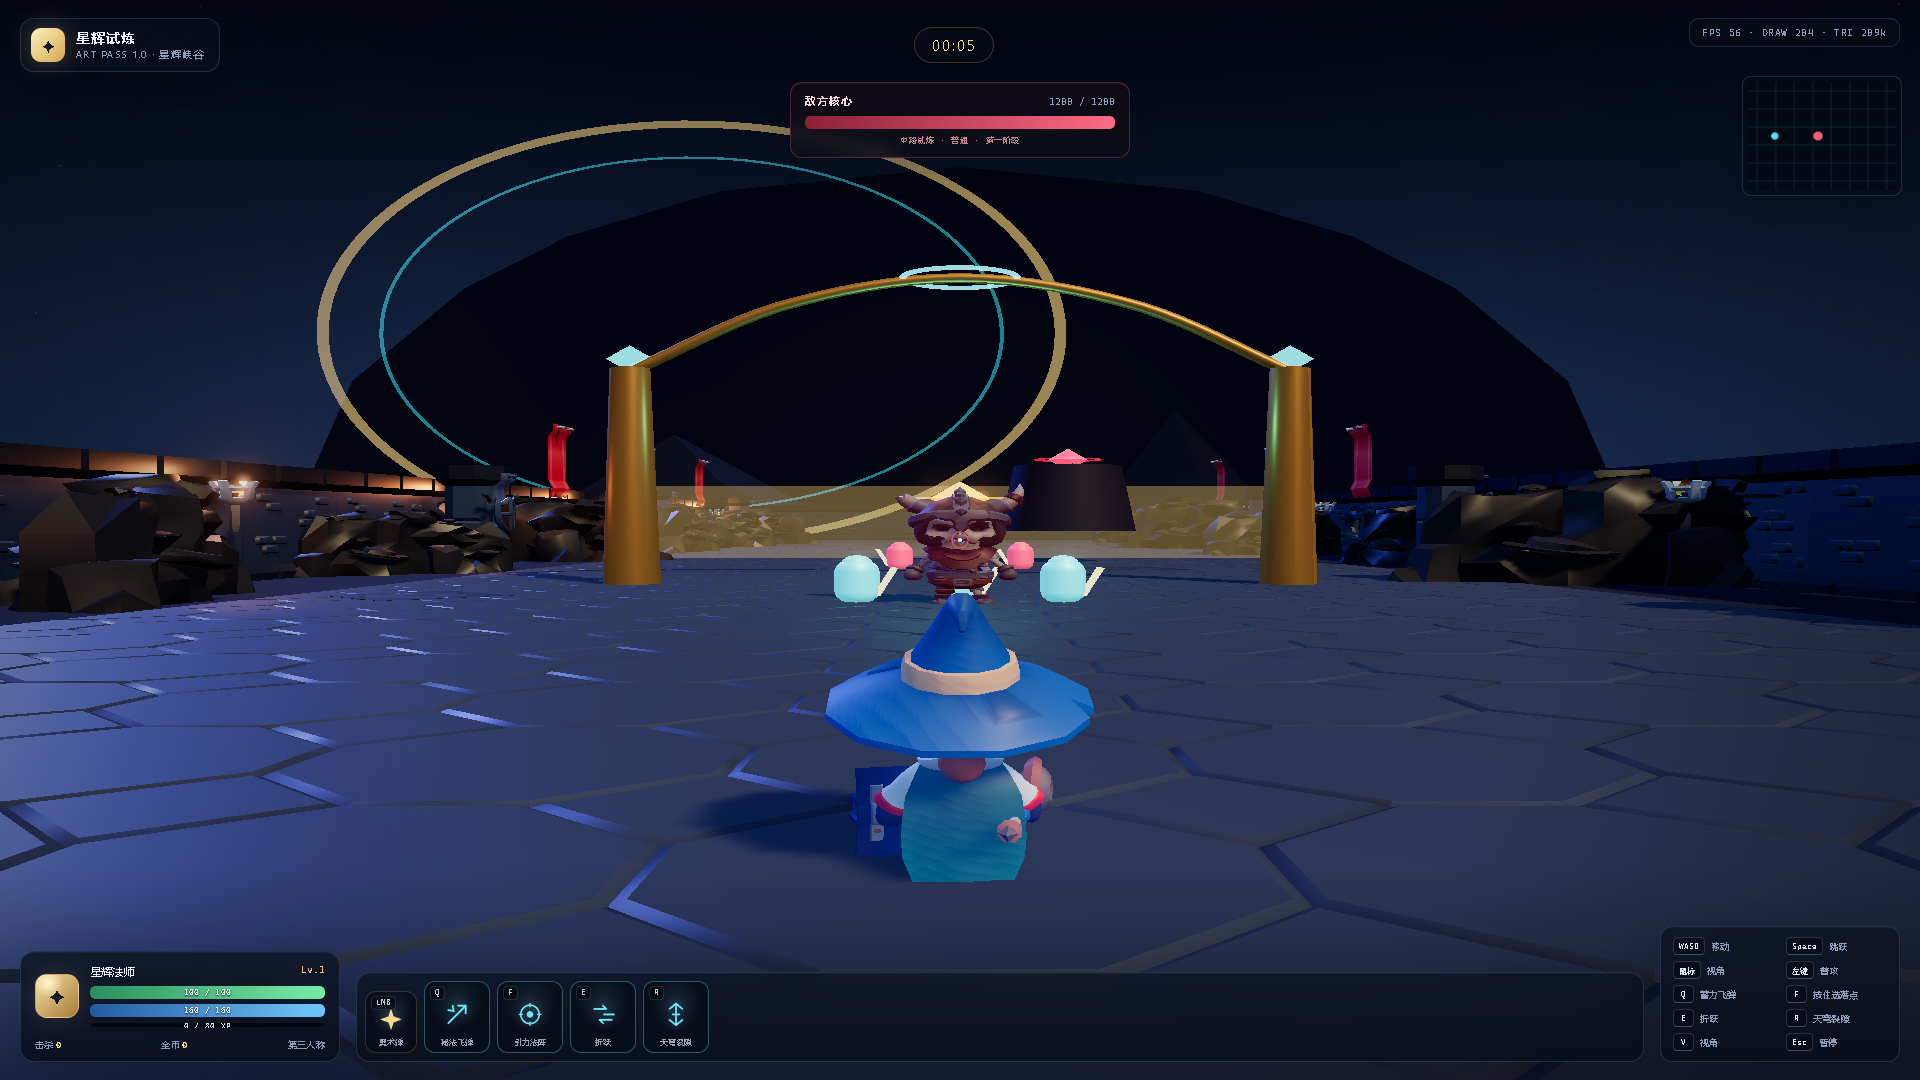
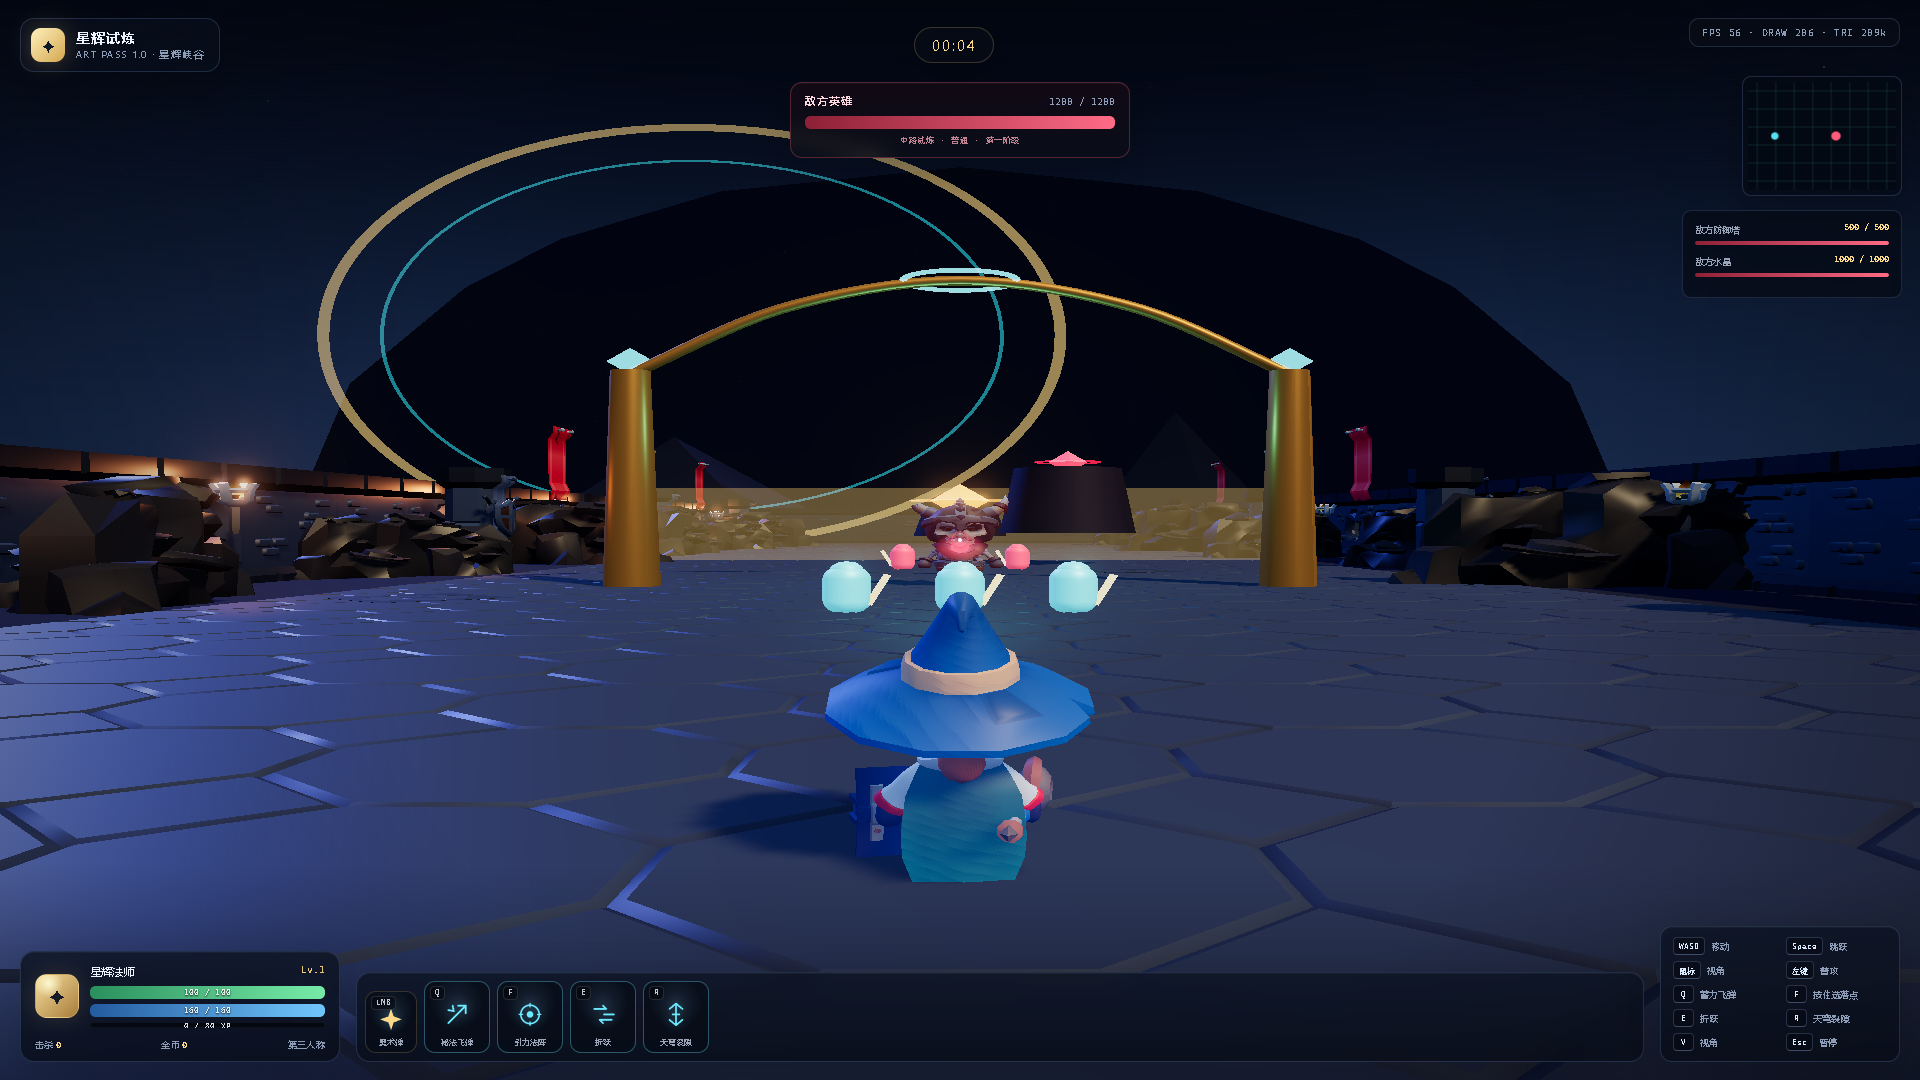
feat(p6): add respawns and lane objective HUD

diff --git a/src/game/Game.ts b/src/game/Game.ts
@@ -147,6 +147,7 @@ export class Game {
   private laneNextId = 100000;
   private laneNextStructureId = 200000;
   private laneEnemyAttackTimer = 1.2;
+  private laneEnemyRespawnTimer = 0;
   private runRound = 1;
   private readonly upgrades = new Map<UpgradeId, number>();
   private runFinished = false;
@@ -496,6 +497,7 @@ export class Game {
         shopItemsBought: this.shopItemsBought,
         shopDamageBonus: this.shopDamageBonus,
         shopCooldownBonus: this.shopCooldownBonus,
+        laneEnemyRespawnTimer: this.laneEnemyRespawnTimer,
         kills: this.kills,
         bossModifier: this.bossModifier,
         build: this.buildSummary,
@@ -765,6 +767,7 @@ export class Game {
     this.clearLaneStructures();
     this.laneWaveTimer = 1.5;
     this.laneEnemyAttackTimer = 1.2;
+    this.laneEnemyRespawnTimer = 0;
     this.dummy.setVariant('star');
     this.dummy.setMaxHealth(1200);
     this.applyBossModifiers();
@@ -801,6 +804,17 @@ export class Game {
 
   private clearLaneStructures(): void {
     for (const structure of this.laneStructures.splice(0)) structure.dispose();
+  }
+
+  private respawnLaneEnemy(): void {
+    this.dummy.setVariant('star');
+    this.dummy.setMaxHealth(1200);
+    this.dummy.respawn();
+    this.bossDefeated = false;
+    this.laneEnemyAttackTimer = 1.2;
+    this.enemyView.setVisible(true);
+    this.enemyView.play('Idle', 0.1);
+    this.hud.showToast('敌方英雄已重生', 1000);
   }
 
   private clearLaneMinions(): void {
@@ -1380,6 +1394,15 @@ export class Game {
     this.player.update(dt, move, this.input.yaw);
 
     if (this.gameMode === 'lane') {
+      if (this.laneEnemyRespawnTimer > 0) {
+        this.laneEnemyRespawnTimer = Math.max(
+          0,
+          this.laneEnemyRespawnTimer - dt,
+        );
+        if (this.laneEnemyRespawnTimer <= 0) {
+          this.respawnLaneEnemy();
+        }
+      }
       this.laneWaveTimer = Math.max(0, this.laneWaveTimer - dt);
       if (this.laneWaveTimer <= 0) {
         this.laneWaveTimer = 12;
@@ -1648,6 +1671,19 @@ export class Game {
         ? `中路试炼 · ${this.difficultyConfig.shortLabel} · ${this.dummy.phaseLabel}`
         : `Boss ${this.runRound}/${BOSS_ROUNDS} · ${this.difficultyConfig.shortLabel} · ${this.dummy.phaseLabel}`,
       this.bossDisplayName,
+    );
+    const laneTower = this.laneStructures.find(
+      (structure) => structure.kind === 'tower',
+    );
+    const laneNexus = this.laneStructures.find(
+      (structure) => structure.kind === 'nexus',
+    );
+    this.hud.setLaneObjectives(
+      this.gameMode === 'lane',
+      laneTower?.health ?? 0,
+      500,
+      laneNexus?.health ?? 0,
+      1000,
     );
     this.hud.updateMinimap(
       this.player.position,
@@ -2424,8 +2460,9 @@ export class Game {
     if (this.bossDefeated || this.upgradePending || this.runFinished) return;
     if (this.gameMode === 'lane') {
       this.bossDefeated = true;
+      this.laneEnemyRespawnTimer = 8;
       this.hud.setTarget(false);
-      this.hud.showToast('敌方英雄被击退 · 水晶仍在', 1600);
+      this.hud.showToast('敌方英雄被击退 · 8 秒后重生', 1600);
       this.enemyView.play('Death_A', 0.1, true);
       this.enemyActionLock = 3.0;
       return;
@@ -2636,6 +2673,7 @@ export class Game {
     if (this.gameMode === 'lane') {
       this.laneWaveTimer = 1.5;
       this.laneEnemyAttackTimer = 1.2;
+      this.laneEnemyRespawnTimer = 0;
       this.clearLaneMinions();
       this.clearLaneStructures();
       this.spawnLaneStructures();

diff --git a/src/game/Hud.ts b/src/game/Hud.ts
@@ -84,6 +84,11 @@ export class Hud {
   private readonly pauseStats = element<HTMLParagraphElement>('pause-stats');
   private readonly victoryStats = element<HTMLParagraphElement>('victory-stats');
   private readonly minimap = element<HTMLCanvasElement>('minimap');
+  private readonly laneObjectives = element<HTMLDivElement>('lane-objectives');
+  private readonly laneTowerText = element<HTMLElement>('lane-tower-text');
+  private readonly laneTowerFill = element<HTMLDivElement>('lane-tower-fill');
+  private readonly laneNexusText = element<HTMLElement>('lane-nexus-text');
+  private readonly laneNexusFill = element<HTMLDivElement>('lane-nexus-fill');
   private readonly deathScreen = element<HTMLDivElement>('death-screen');
   private readonly deathCountdown = element<HTMLParagraphElement>('death-countdown');
   private readonly respawnButton = element<HTMLButtonElement>('respawn-button');
@@ -368,6 +373,21 @@ export class Hud {
       `造成伤害 ${Math.round(dealt)} · 承受伤害 ${Math.round(taken)} · 命中 ${hits}`;
     this.pauseStats.textContent = text;
     this.victoryStats.textContent = text;
+  }
+
+  setLaneObjectives(
+    visible: boolean,
+    towerHealth = 0,
+    towerMax = 500,
+    nexusHealth = 0,
+    nexusMax = 1000,
+  ): void {
+    this.laneObjectives.classList.toggle('hidden', !visible);
+    if (!visible) return;
+    this.laneTowerText.textContent = `${Math.max(0, Math.ceil(towerHealth))} / ${towerMax}`;
+    this.laneTowerFill.style.width = `${Math.max(0, Math.min(1, towerHealth / towerMax)) * 100}%`;
+    this.laneNexusText.textContent = `${Math.max(0, Math.ceil(nexusHealth))} / ${nexusMax}`;
+    this.laneNexusFill.style.width = `${Math.max(0, Math.min(1, nexusHealth / nexusMax)) * 100}%`;
   }
 
   updateMinimap(

diff --git a/index.html b/index.html
@@ -31,6 +31,23 @@
         <canvas id="minimap" width="160" height="120"></canvas>
       </div>
 
+      <div id="lane-objectives" class="lane-objectives hidden">
+        <div class="lane-objective-row">
+          <span>敌方防御塔</span>
+          <b id="lane-tower-text">500 / 500</b>
+        </div>
+        <div class="bar target-bar">
+          <div id="lane-tower-fill" class="bar-fill enemy"></div>
+        </div>
+        <div class="lane-objective-row">
+          <span>敌方水晶</span>
+          <b id="lane-nexus-text">1000 / 1000</b>
+        </div>
+        <div class="bar target-bar">
+          <div id="lane-nexus-fill" class="bar-fill enemy"></div>
+        </div>
+      </div>
+
       <div id="boss-intro" class="boss-intro hidden">
         <div class="boss-intro-eyebrow">BOSS ENCOUNTER</div>
         <h2 id="boss-intro-title">星蚀守卫</h2>

diff --git a/src/style.css b/src/style.css
@@ -218,6 +218,43 @@ body.low-health #vignette {
   height: 100%;
 }
 
+.lane-objectives {
+  position: absolute;
+  z-index: 9;
+  top: 210px;
+  right: 18px;
+  width: 220px;
+  padding: 11px 12px;
+  border: 1px solid rgba(143, 186, 255, 0.16);
+  border-radius: 9px;
+  background: rgba(4, 9, 18, 0.7);
+  backdrop-filter: blur(10px);
+}
+
+.lane-objectives.hidden {
+  display: none;
+}
+
+.lane-objective-row {
+  display: flex;
+  justify-content: space-between;
+  gap: 8px;
+  color: rgba(206, 222, 242, 0.72);
+  font-size: 9px;
+}
+
+.lane-objective-row b {
+  color: var(--gold-strong);
+  font-family: "Cascadia Code", "Consolas", monospace;
+  font-size: 9px;
+  font-weight: 500;
+}
+
+.lane-objectives .target-bar {
+  height: 4px;
+  margin: 5px 0 9px;
+}
+
 .shop-grid {
   display: grid;
   gap: 9px;

diff --git a/docs/P6-验收记录.md b/docs/P6-验收记录.md
@@ -1,7 +1,7 @@
-# P6 验收记录 · 中路试炼原型（进行中）
+# P6 验收记录 · 中路试炼（核心完成）
 
 > 日期：2026-11-19  
-> 版本：v0.8.0a（P6 当前切片）  
+> 版本：v0.8.0a（P6 核心原型）  
 > 测试环境：Chrome + NVIDIA GeForce RTX 3050  
 > 相关截图：[中路试炼 1080p](./p6-lane-1080p.png)、[水晶击破结算](./p6-lane-victory.png)、[星辉商店](./p6-shop.png)
 
@@ -33,8 +33,9 @@ Boss Rush 默认继续可用，不受影响。
 - 敌方水晶：1000 HP
 - 玩家 / 小兵可以攻击塔和水晶
 - 击破水晶触发 `RUN CLEARED` 结算
-- 敌方英雄被击倒后不会立刻结束，仍需推掉水晶
-- 防御塔/水晶当前是简化体块，没有独立血条面板
+- 敌方英雄被击倒后不会立刻结束，8 秒后重生，仍需推掉水晶
+- 右上角新增防御塔/水晶血条面板
+- 防御塔/水晶当前是简化体块，没有更正式模型
 
 ### 金币 / 经验 / 商店
 
@@ -73,6 +74,8 @@ Boss Rush 默认继续可用，不受影响。
 | 6 件装备槽 | 通过（金币 50 · 装备 6/6） |
 | 防御塔/水晶生成 | 通过（500 / 1000 HP） |
 | 小兵互相交战 | 通过（第一波双方 70 → 30 HP） |
+| 敌方英雄重生 | 通过（8 秒后 1200 HP） |
+| 塔/水晶血条面板 | 通过（右上角显示 500/500、1000/1000） |
 | 击破水晶 | 通过（敌方水晶已倒下 + 结算） |
 | 控制台错误 | 0 error / 0 warning |
 
@@ -82,28 +85,29 @@ Boss Rush 默认继续可用，不受影响。
 - `scripts/p6-lane-shop-test.mjs`
 - `scripts/p6-lane-structure-test.mjs`
 - `scripts/p6-lane-combat-test.mjs`
+- `scripts/p6-lane-respawn-test.mjs`
 - `scripts/p6-shop-six-test.mjs`
 - `scripts/p6-lane-perf.mjs`
+- `scripts/p6-prod-smoke.mjs`
 
 ## 性能
 
 真实 GPU（1920×1080）：
 
-- 中路试炼 + 6 小兵 + 塔/水晶：**56 FPS / 204 draw calls / 209k triangles**
+- 中路试炼 + 6 小兵 + 塔/水晶 + 目标面板：**56 FPS / 205 draw calls / 209k triangles**
 
 > 小兵模型仍是简化体块，后续会合并/实例化并优化。
 
 ## 尚未完成
 
 - 更完整对线 AI：补刀/换血/技能连招/推塔
-- 敌方英雄被击倒后的复活逻辑
 - 装备图标、出售/合成、金币曲线
 - 完整 1v1 中路节奏（8-12 分钟）
 - 三路兵线/野区
-- 塔/水晶血条面板和更正式模型
+- 塔/水晶更正式模型
 
 ## 下一步
 
-1. 加防御塔和水晶，改成“推塔获胜”
-2. 敌方英雄 AI 从 Boss 控制器中拆出
-3. 小兵互相交战、装备栏和完整 1v1 一局
+1. 更完整的对线 AI（补刀/换血/连招）
+2. 装备图标/出售/合成与金币曲线
+3. 完整 8-12 分钟 1v1 一局

diff --git a/docs/开发日程表.md b/docs/开发日程表.md
@@ -23,8 +23,8 @@
 | Sprint 8 | 2026-11-25 ~ 11-29 | 第三 Boss：星环巨像 | ✅ 已完成 |
 | Sprint 9 | 2026-11-30 ~ 12-04 | 难度、词缀、强化深度 | ✅ 已完成 |
 | Sprint 10 | 2026-12-07 ~ 12-11 | UI / 音频 / VFX / 发布质量 | ✅ 已完成 |
-| Sprint 11 | 2026-12-14 ~ 12-18 | 性能、QA、公开试玩 | 🟡 核心完成（30min soak 待补） |
-| Sprint 12 | 2026-12-21 ~ 2027-01-10 | LoL 骨架：小兵/塔/商店/AI | 🟡 第一切片 |
+| Sprint 11 | 2026-12-14 ~ 12-18 | 性能、QA、公开试玩 | ✅ 核心完成（30min soak 待补） |
+| Sprint 12 | 2026-12-21 ~ 2027-01-10 | LoL 骨架：小兵/塔/商店/AI | ✅ 核心完成（可玩原型） |
 
 ---
 
@@ -247,7 +247,7 @@
 - 真实 GPU 60 FPS
 - 详见 `docs/P4-验收记录.md`
 
-## Sprint 11：性能 / QA / 发布（2026-12-14 ~ 12-18，5 天）🟡
+## Sprint 11：性能 / QA / 发布（2026-12-14 ~ 12-18，5 天）✅
 
 - [x] 代码拆分，降低入口首包
 - [ ] GLB Draco / 纹理 KTX2
@@ -267,7 +267,7 @@
 - 30 分钟 soak 待补
 - 玩家手册与 README 已更新
 
-## Sprint 12：LoL 骨架（2026-12-21 ~ 2027-01-10，约 3 周）🟡
+## Sprint 12：LoL 骨架（2026-12-21 ~ 2027-01-10，约 3 周）✅
 
 **目标：从 Boss Rush 走向真正的中路 MOBA。**
 
@@ -280,13 +280,15 @@
 - [x] 防御塔 500 HP / 水晶 1000 HP
 - [x] 水晶击破结算
 - [x] 独立轻量敌方英雄 AI（逼近/撤退/飞弹）
+- [x] 敌方英雄 8 秒重生
+- [x] 塔/水晶血条面板
 - [ ] 完整对线 AI（补刀/换血/推塔）
 - [ ] 8-12 分钟一局与完整节奏
 
 **验收**
 
-- 当前切片：小兵交战、金币、6 件装备、防御塔/水晶、水晶结算、轻量英雄 AI 可玩
-- 完整 1v1 节奏与更完整对线 AI 仍待完成
+- 核心完成：小兵交战、金币、6 件装备、防御塔/水晶、水晶结算、轻量英雄 AI 可玩
+- 完整 8-12 分钟 1v1 节奏与更完整对线 AI 作为后续打磨
 - 详见 `docs/P6-验收记录.md`
 
 ## 暂不排期（明确后置）
@@ -315,10 +317,10 @@
 
 ## 当前下一步
 
-当前 P6 第一切片已完成：
+P0-P6 核心已完成：
 
-1. 继续防御塔 + 水晶
-2. 小兵互相交战
-3. 独立敌方英雄 AI 与完整 1v1 一局
+1. Boss Rush 三 Boss + 难度/词缀/评分
+2. 中路试炼：小兵、塔/水晶、商店、轻量 AI
+3. 后续打磨：完整 1v1 节奏、30 分钟 soak、Firefox
 
 > 原则：一个 Sprint 结束必须有一个可玩版本和验收记录，不把多个未验证功能堆在一起。

diff --git a/BOSS-RUSH-STATUS.md b/BOSS-RUSH-STATUS.md
@@ -2,9 +2,9 @@
 
 日期：2026-11-19  
 路线：Boss Rush / Roguelike + 中路试炼原型  
-当前版本：**v0.8.0a · 三 Boss + P6 第一切片**
+当前版本：**v0.8.0a · 三 Boss + P6 核心原型**
 
-## P6 第一切片
+## P6 核心原型
 
 - 开始页模式选择：Boss Rush / 中路试炼
 - 中路试炼：双方各 3 小兵，12 秒一波
@@ -12,8 +12,9 @@
 - 敌方小兵死亡给 12 金币 + 20 XP
 - `B` 键商店：6 种商品 + 6 槽装备栏
 - 敌方防御塔 500 HP / 水晶 1000 HP，水晶击破结算
-- 独立轻量敌方英雄 AI：逼近/低血撤退/飞弹
-- 1080p：56 FPS / 204 draw calls / 209k tris
+- 独立轻量敌方英雄 AI：逼近/低血撤退/飞弹，8 秒重生
+- 右上角塔/水晶血条面板
+- 1080p：56 FPS / 206 draw calls / 209k tris
 - 详见 `docs/P6-验收记录.md`
 
 ## P5 完成内容

diff --git a/docs/玩家手册.md b/docs/玩家手册.md
@@ -118,6 +118,8 @@ npm run preview
 - 敌方防御塔 500 HP、敌方水晶 1000 HP
 - 击破水晶触发 `RUN CLEARED` 结算
 - 敌方英雄使用轻量对线 AI：逼近、撤退、发射飞弹
+- 敌方英雄被击倒后 8 秒重生
+- 右上角显示防御塔/水晶血条
 - 这是原型：完整对线 AI 和 8-12 分钟 1v1 仍在开发
 
 ### 难度与词缀
